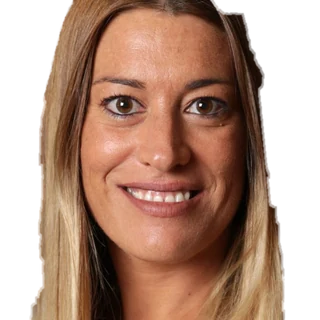
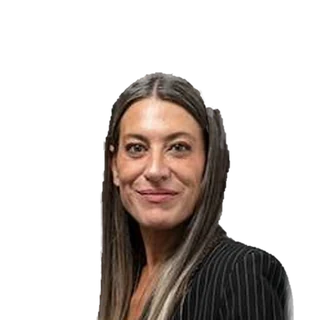
Spanyol oldal: új Nogueras-fotó
Claude-Session: https://claude.ai/code/session_01J8PjfkUCs1TyppvFaUMZMM

diff --git a/sw.js b/sw.js
@@ -1,7 +1,7 @@
 /* Választások – offline gyorsítótár.
    Oldalak és élő adatok: mindig a hálózatról, gyorsítótár csak tartaléknak (offline).
    Statikus fájlok: azonnal a gyorsítótárból, közben a háttérben frissül. */
-const V="v61y",CORE="core-"+V,RT="rt-"+V;
+const V="v61z",CORE="core-"+V,RT="rt-"+V;
 const PRE=["./","index.html","eredmenyek","spanyol-valasztas","spanyol-szimulator","spanyol-valasztas.html","spanyol-szimulator.html","zold-foki-szigetek-valasztas","zold-foki-szigetek-valasztas.html","eredmenyek.html","magyarorszag.html","szimulator.html","orszag.html","spanyolorszag.html","nemetorszag.html","ausztria.html","szlovakia.html","romania.html","egyesult-allamok.html","valasztasi-rendszer.html","naptar.html","404.html",
   "assets/portal.css?v=16","assets/orszagok.js?v=11","assets/fastzoom.js?v=1","assets/anim.js?v=3","assets/terkep-anim.js?v=4","assets/app.js?v=9","assets/app/icon-192.png?v=3","manifest.webmanifest"];
 self.addEventListener("install",e=>{e.waitUntil(caches.open(CORE).then(c=>Promise.all(PRE.map(u=>c.add(u).catch(()=>{})))).then(()=>self.skipWaiting()));});
